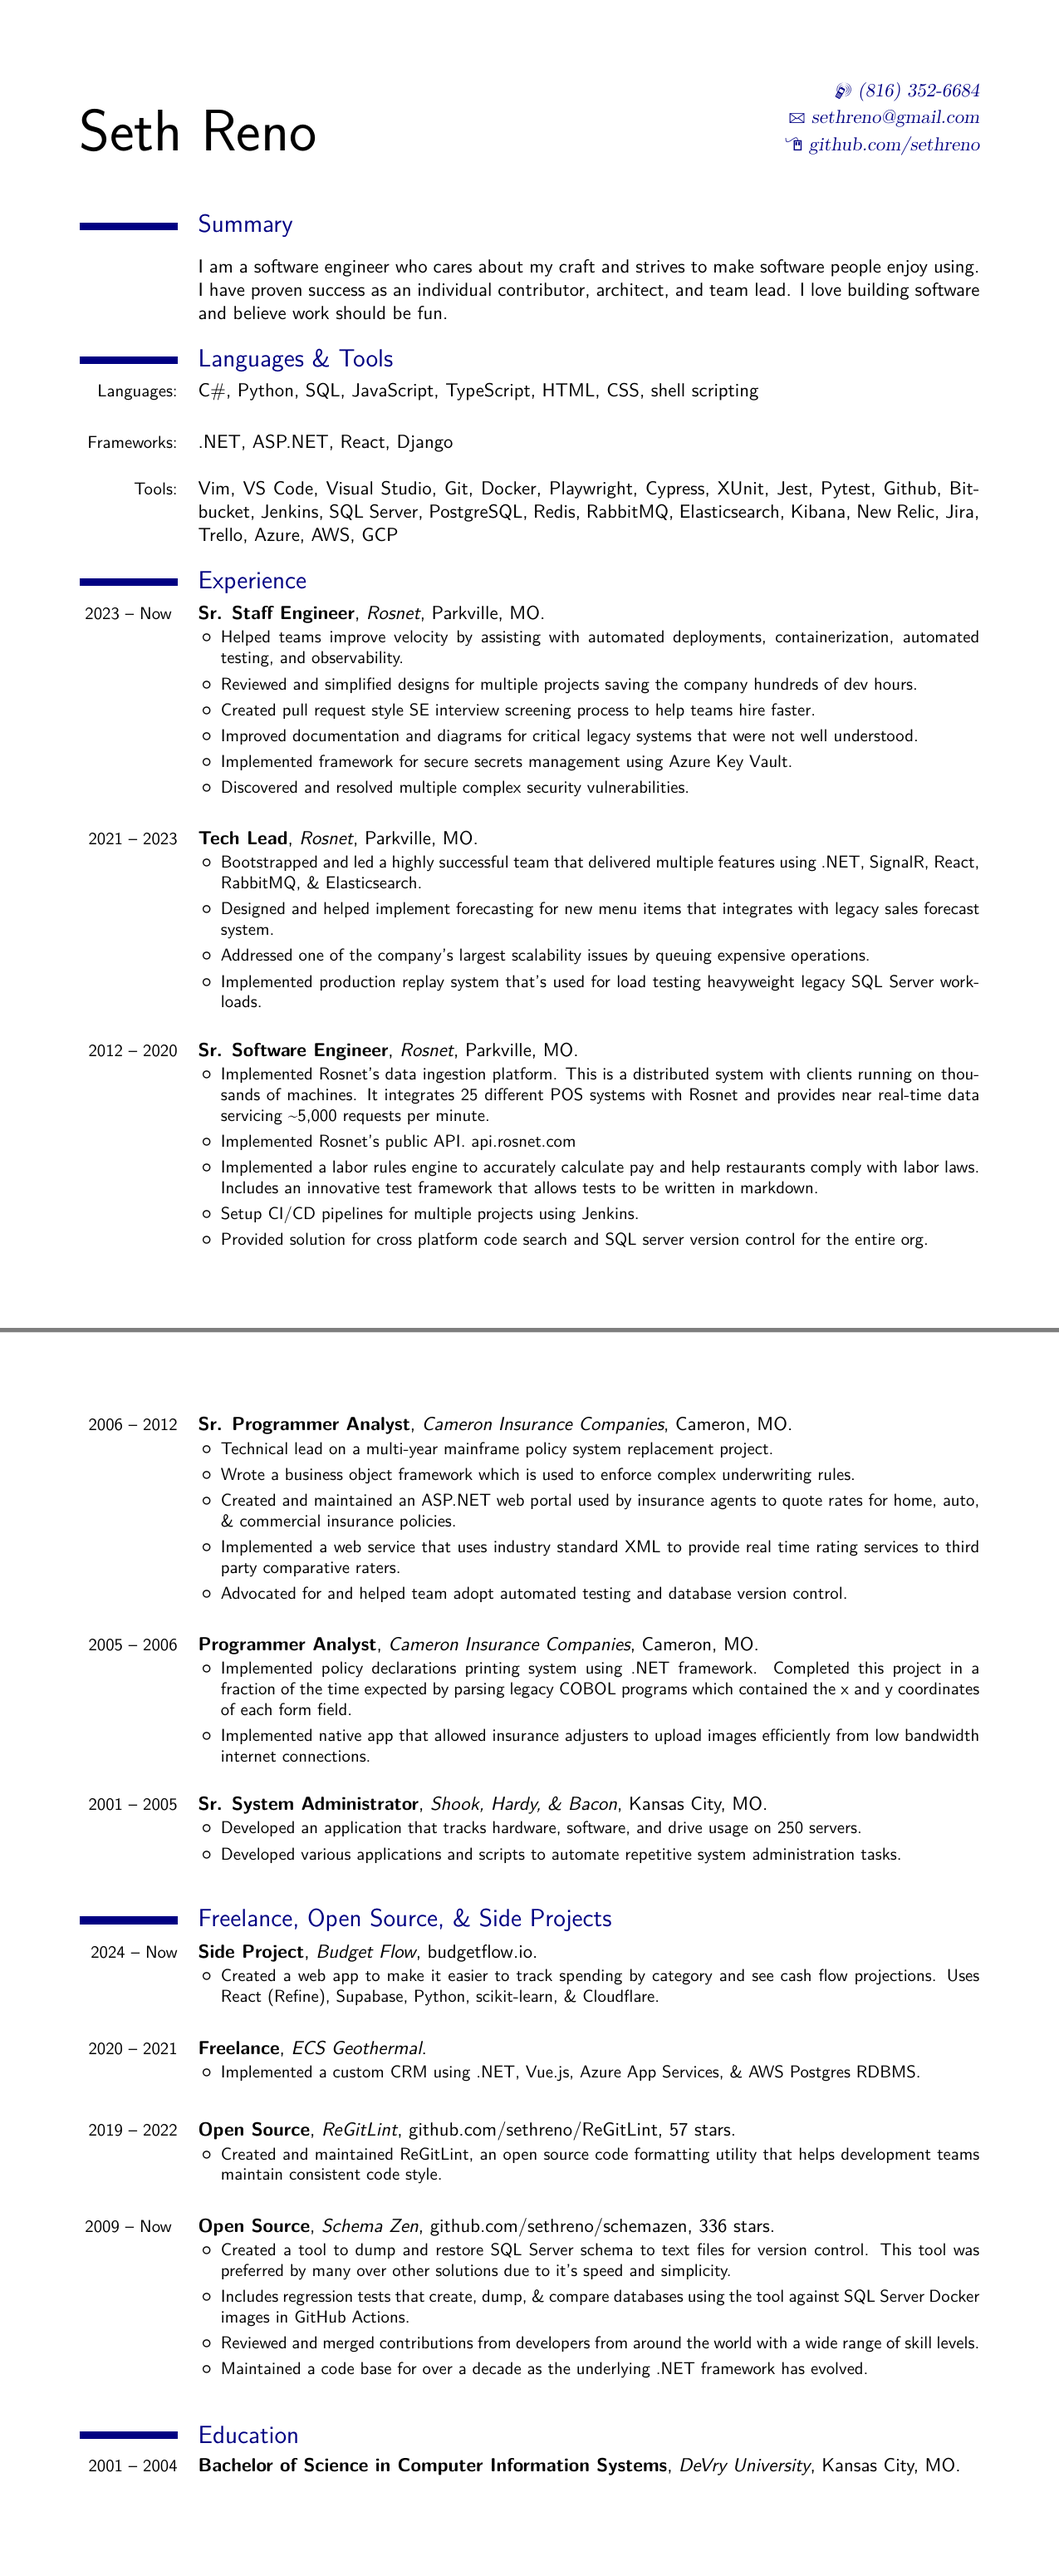
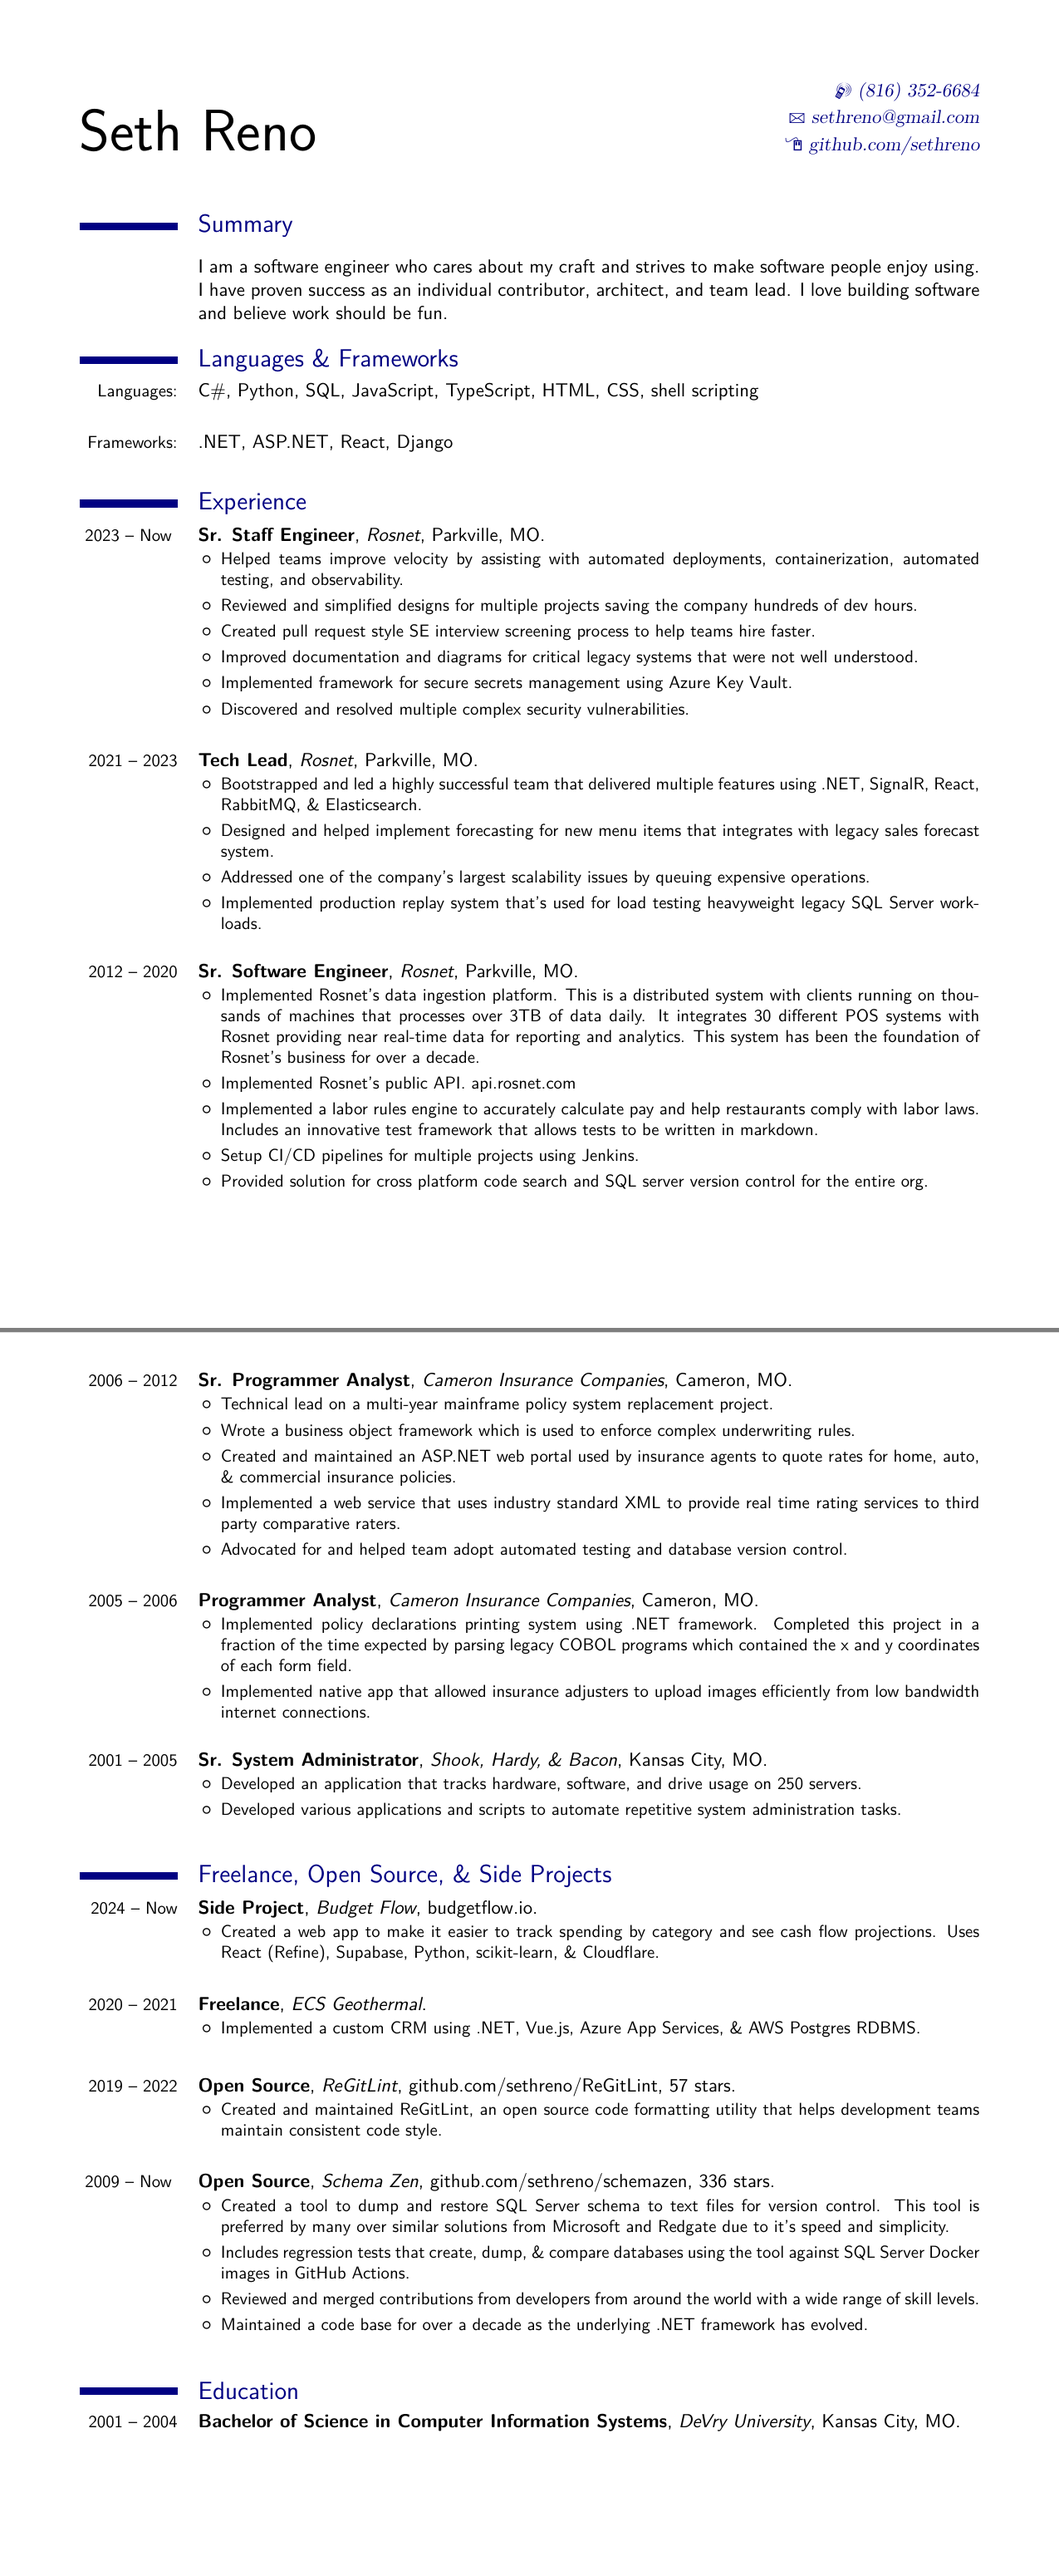
Remove tools, tweak Dart & SchemaZen sections

diff --git a/src/resume.tex b/src/resume.tex
@@ -55,23 +55,12 @@ architect, and team lead. I love building software and believe work should be
 fun.
 }
 
-\section{Languages \& Tools} 
+\section{Languages \& Frameworks}
 	\cvline {Languages:}
 		{C\#, Python, SQL, JavaScript, TypeScript, HTML, CSS, shell scripting}
 \linebreak
 	\cvline {Frameworks:}
 		{.NET, ASP.NET, React, Django}
-\linebreak
-	\cvline {Tools:}
-		{ Vim, VS Code, Visual Studio, Git, Docker,
-			Playwright, Cypress,
-			XUnit, Jest, Pytest,
-			Github, Bitbucket, Jenkins,
-			SQL Server, PostgreSQL, Redis, RabbitMQ,
-			Elasticsearch, Kibana, New Relic,
-			Jira, Trello,
-			Azure, AWS, GCP
-		}
 
 \section{Experience} 
 	\cventry
@@ -126,9 +115,10 @@ fun.
 			\item
 				Implemented Rosnet's data ingestion platform. This is a
 				distributed system with clients running on thousands of
-				machines. It integrates 25 different POS systems with Rosnet and
-				provides near real-time data servicing \char`\~5,000 requests
-				per minute.
+				machines that processes over 3TB of data daily. It integrates 30
+				different POS systems with Rosnet providing near real-time data
+				for reporting and analytics. This system has been the foundation
+				of Rosnet's business for over a decade.
 			\item
 				Implemented Rosnet's public API. \httplink{api.rosnet.com}
 			\item
@@ -236,8 +226,9 @@ fun.
 		\begin{itemize}
 			\item 
 				Created a tool to dump and restore SQL Server schema to text
-				files for version control. This tool was preferred by many over
-				other solutions due to it's speed and simplicity.
+				files for version control. This tool is preferred by many over
+				similar solutions from Microsoft and Redgate due to it's speed
+				and simplicity.
 			\item 
 				Includes regression tests that create, dump, \& compare
 				databases using the tool against SQL Server Docker images in
